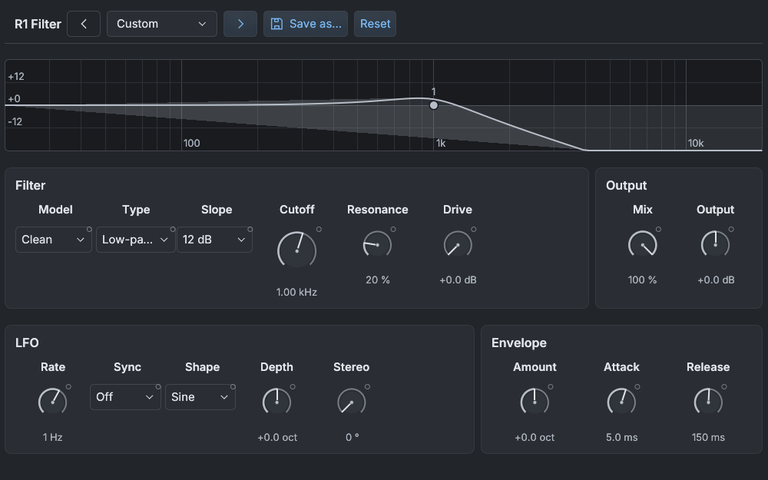
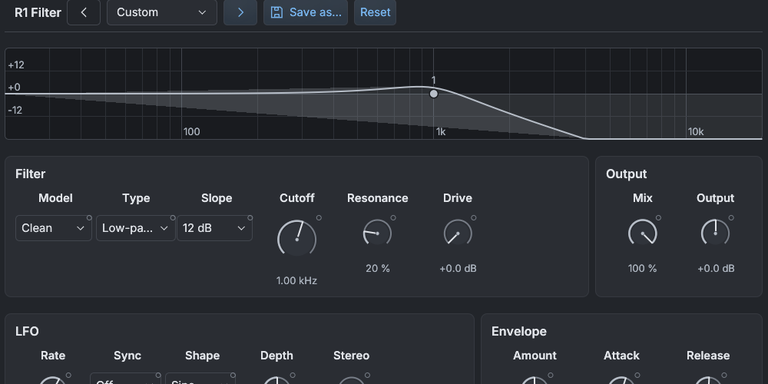
Count built-ins with a shipped image as previewed and fit cards at 2:1
Claude-Session: https://claude.ai/code/session_01NMJbGq8tKPpGwTAgcuaYY3

diff --git a/crates/daw-app/tests/library_preview_status_e2e.rs b/crates/daw-app/tests/library_preview_status_e2e.rs
@@ -66,12 +66,11 @@ fn unavailable_images_keep_details_retry_and_the_original_assignment_identity() 
     // Missing and failed images belong to a neutral collection, not a list of
     // broken instruments. An empty image collection is not an empty inventory.
     let without = app.click("Without preview");
-    // The two fixtures and the built-in R1 Mini, which has no captured image.
-    assert_eq!(without["library"]["total"], 3);
+    // The two fixtures; the built-in R1 Mini ships its own image.
+    assert_eq!(without["library"]["total"], 2);
     preserved(&without, &baseline);
     let with = app.click("With preview");
-    assert_eq!(with["library"]["total"], 0);
-    assert!(visible(&with, "No matching instruments"));
+    assert_eq!(with["library"]["order"], json!(["R1 Mini"]));
     assert!(!visible(&with, "No VST3 instruments found"));
     preserved(&with, &baseline);
     app.click("All plug-ins");

diff --git a/crates/daw-app/src/builtin_devices.rs b/crates/daw-app/src/builtin_devices.rs
@@ -48,7 +48,12 @@ pub(crate) fn catalog() -> &'static [CatalogEntry] {
                 fingerprint: format!("{LOCATOR}{}", descriptor.id),
                 thumbnail: None,
                 thumbnail_size: None,
-                status: ThumbnailStatus::Missing,
+                // Counts in the "With preview" collection; the image is compiled in.
+                status: if PREVIEWS.iter().any(|(id, _)| *id == descriptor.id) {
+                    ThumbnailStatus::Ready
+                } else {
+                    ThumbnailStatus::Missing
+                },
                 added_unix_ms: 0,
             })
             .collect()

diff --git a/docs/R1_DEVICES.md b/docs/R1_DEVICES.md
@@ -322,7 +322,7 @@ panels, presets or projects.
   results; the **Built-in (R1)** collection lists only them. The empty-library
   text no longer says that MIDI is silent until a plug-in is installed.
   Their card image is a panel snapshot compiled in from
-  `crates/daw-app/assets/<id>-preview.png` (768×480, cropped from
+  `crates/daw-app/assets/<id>-preview.png` (768×384, cropped from
   `rill --screenshot … --view instrument|effect-editor`); a device without
   one shows its icon. **Device details** reads ports and parameters from the
   registry instantly.
